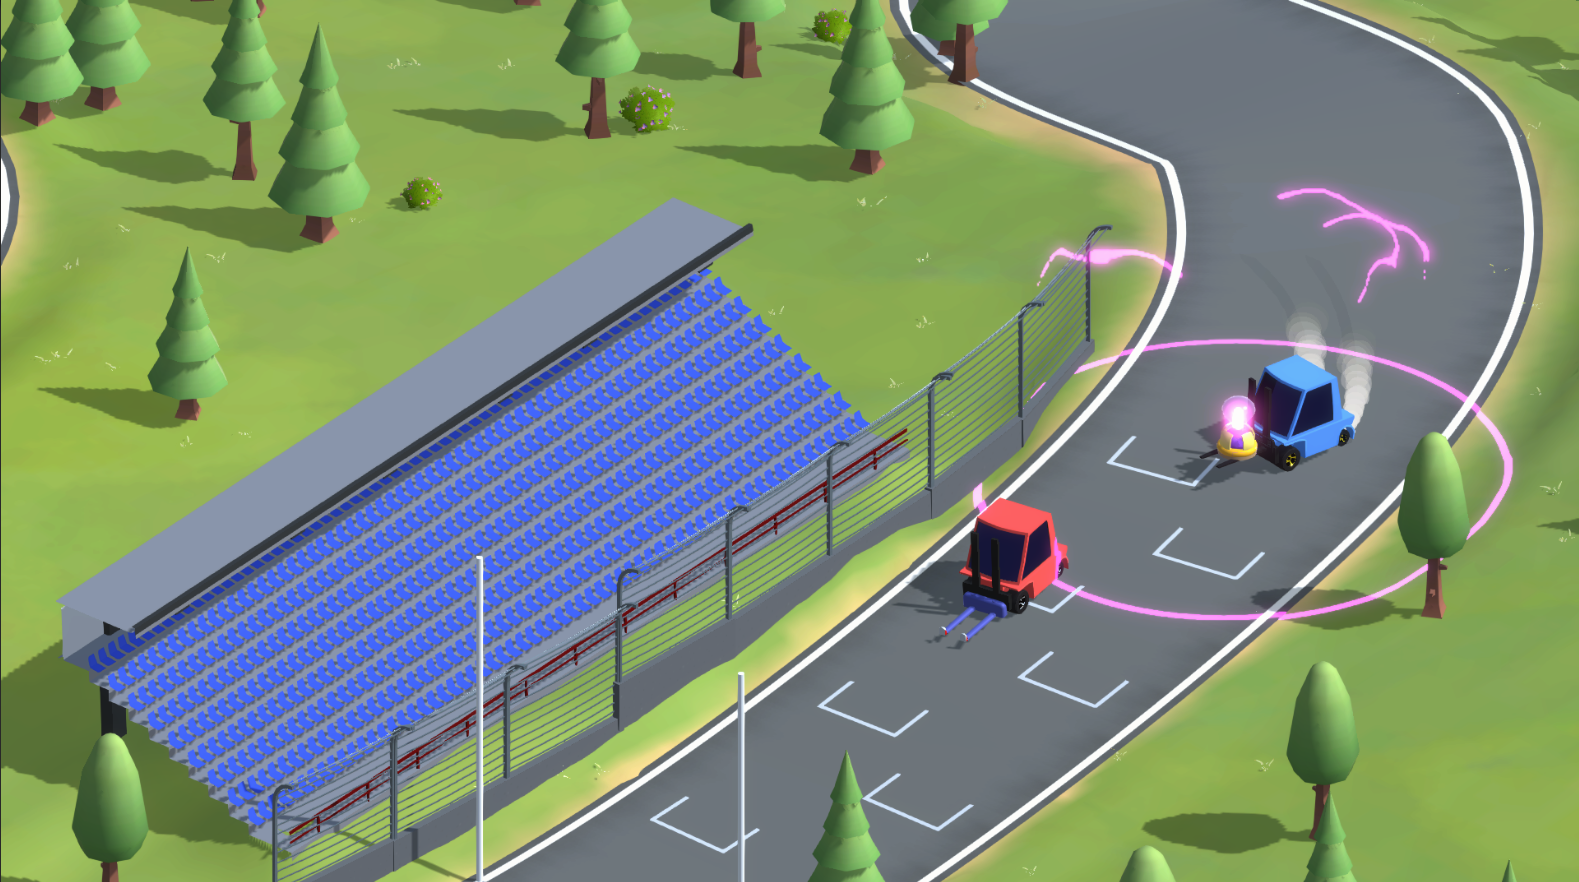
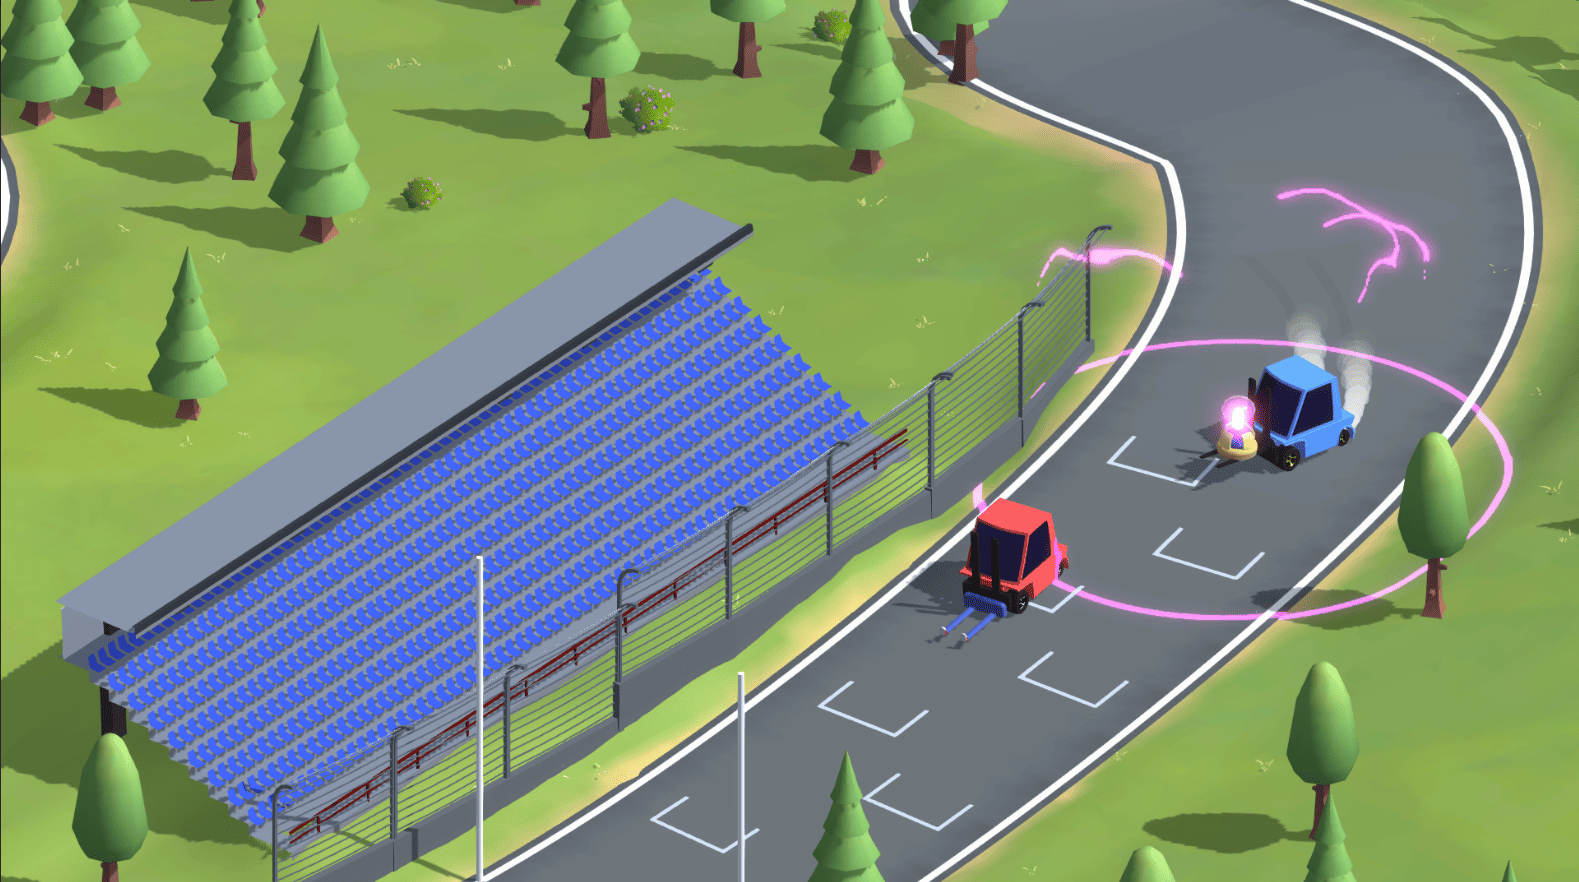
Preload set to metadata on videos in main page.

diff --git a/index.html b/index.html
@@ -128,7 +128,7 @@
                 <!-- Forkfest -->
                       <div id="card1" class="card-body">
 
-                          <video id="video6" class="videos" playsinline preload="auto" poster="img/forkfest/thumbnail.png" muted loop>
+                          <video id="video6" class="videos" playsinline preload="metadata" poster="img/forkfest/thumbnail.png" muted loop>
                             <source src="img/forkfest/forkfest.mp4" type="video/mp4" />
                           </video>
                           <div class="play_button">
@@ -166,7 +166,7 @@
                   <!-- Ski Game -->
                       <div id="card2" class="card-body">
 
-                          <video id="video2" class="videos" playsinline preload="auto" poster="img/ski/1.png" muted>
+                          <video id="video2" class="videos" playsinline preload="metadata" poster="img/ski/1.png" muted>
                             <source src="img/ski/1.mp4" type="video/mp4" />
                           </video>
                           <div class="play_button">
@@ -200,7 +200,7 @@
                   <!-- Algorithm Visualizer -->
                       <div id="card5" class="card-body">
 
-                          <video id="video3" class="videos" playsinline preload="auto" poster="img/sort_visualizer/1.png" muted>
+                          <video id="video3" class="videos" playsinline preload="metadata" poster="img/sort_visualizer/1.png" muted>
                             <source src="img/sort_visualizer/1.mp4" type="video/mp4" />
                           </video>
                           <div class="play_button">
@@ -235,7 +235,7 @@
                   <!-- Arcade -->
                   <div id="card1" class="card-body">
 
-                      <video id="video2" class="videos" playsinline preload="auto" poster="img/arcade/arcade1.png" muted>
+                      <video id="video2" class="videos" playsinline preload="metadata" poster="img/arcade/arcade1.png" muted>
                         <source src="img/arcade/arcade1.mp4" type="video/mp4" />
                       </video>
                       <div class="play_button">
